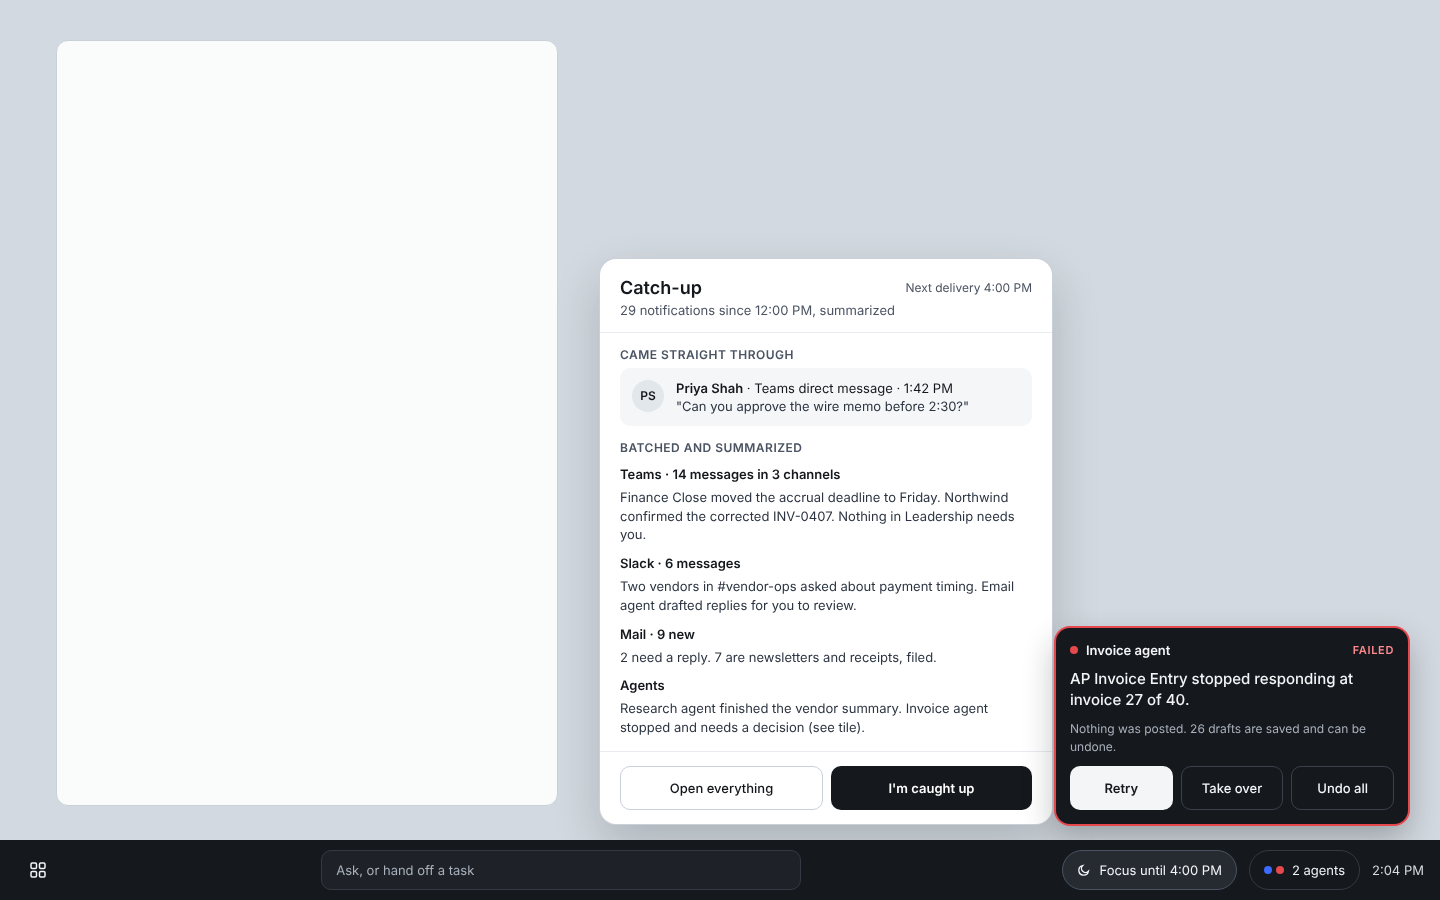
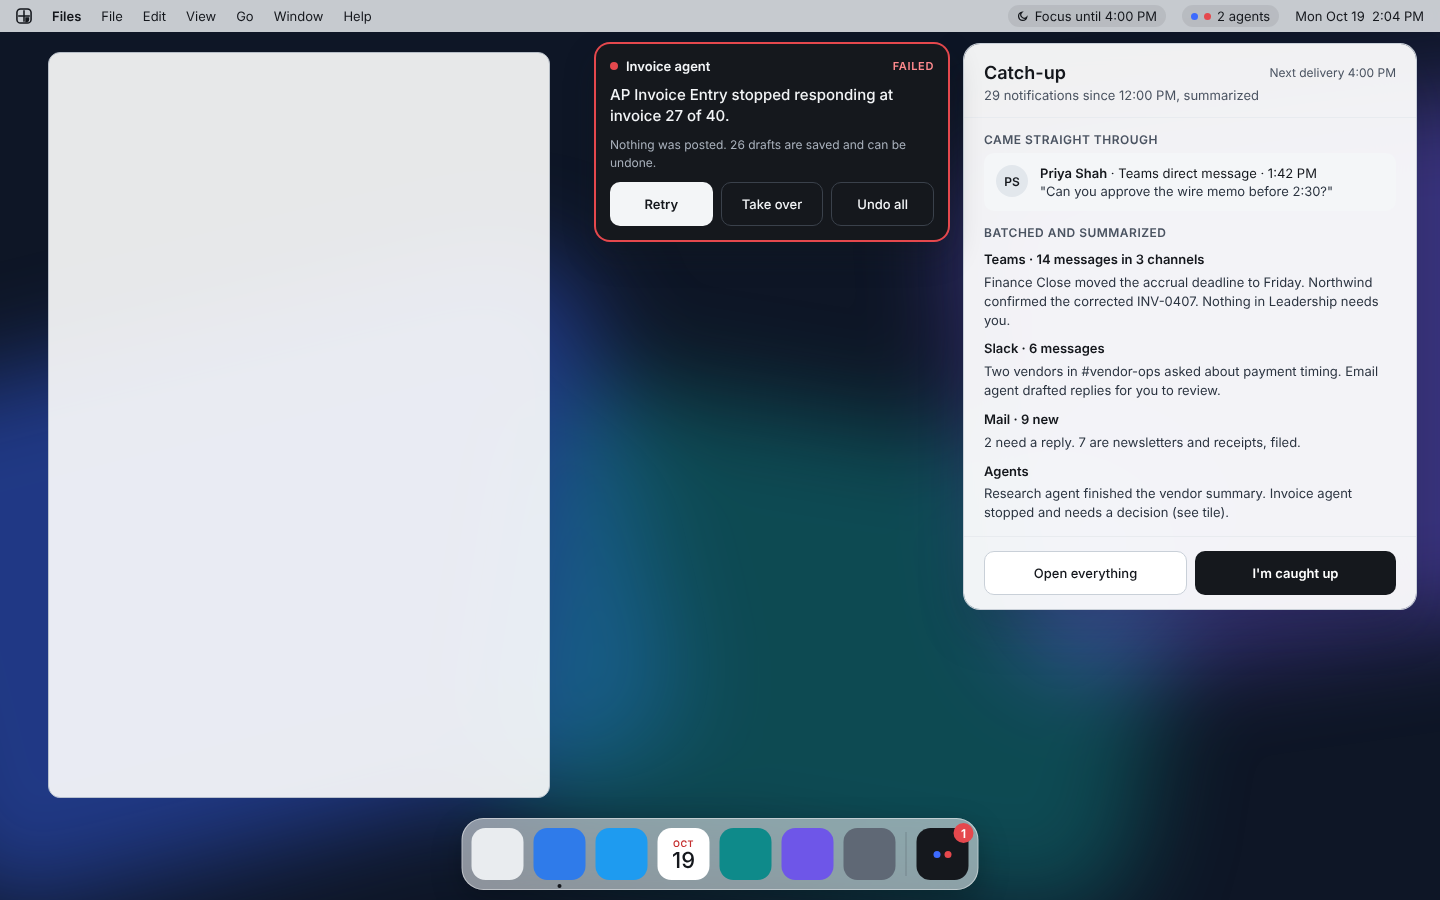
Sync the PRD and mockups: a Mac-like desktop and the UX requirements
The PRD now makes the desktop Mac-like (DK-1: menu bar, dock, window
controls on the left, tiles at the top right, Ctrl Space command bar) and
adds "Desktop experience and design" (UX-1 … UX-40; UX-1, UX-2, UX-10,
UX-20 … UX-22 and UX-30 in P0). The canvas has four new boards (boot, sign
in, snapping and ask the agent, themes) and eleven restyled ones.

- docs/design: all 22 renders current; element maps for the new boards and
  the menu bar and dock.
- Traceability: a Desktop experience section with honest statuses.
- Architecture: the desktop and theme constraint.

Claude-Session: https://claude.ai/code/session_011T7SYa1vfVuLX62i8AiK4u

diff --git a/docs/prd/prd-snapshot.md b/docs/prd/prd-snapshot.md
@@ -20,7 +20,7 @@ V1 succeeds when a security team approves agents with real write access for a fl
 1. Let agents act across apps, files and legacy systems with enforced, IT-defined limits.
 2. Make every agent action visible live, attributable afterward and reversible.
 3. Keep sensitive data inside policy, so it never reaches an unapproved model or destination.
-4. Feel familiar enough that a Windows user is productive on day one without training.
+4. Feel simple and Mac-like, while Windows users stay productive on day one through familiar shortcuts and a short guided tour.
 5. Give IT one console to set agent policy, manage the fleet and prove compliance.
 **Non-goals for v1**
 - Replacing Windows for general knowledge workers who depend on heavy Windows-only apps.
@@ -68,7 +68,7 @@ When requirements conflict, these decide.
 4. **Quiet until it matters.** Tiles stay calm while work goes well. Only "needs you" pulses. Every extra prompt spends user trust.
 5. **The human can always grab the wheel.** Pause, take over and stop work instantly, at any point, on any agent.
 6. **Structured first, pixels last.** Agents use app actions and the accessibility tree. Screen control is a fallback for legacy apps, not the default.
-7. **Familiar on day one.** Taskbar, file browser, windows and shortcuts work the way Windows users expect. AI is added on top, never forced.
+7. **Familiar on day one.** A clean, Mac-like desktop, with the keyboard shortcuts Windows users already know. AI is added on top, never forced.
 8. **Provable to an auditor.** Every agent action is logged with who asked, what it touched and what policy allowed it.
 
 ## Agent window experience
@@ -424,7 +424,7 @@ Glasshouse needs a developer program and an IT-controlled catalog, not a consume
 ## Familiar desktop and app compatibility
 A Windows user should feel at home in minutes, and every app the beachhead uses must run on day one, natively, in the browser or in a managed Windows session.
 **Desktop**
-- DK-1. Bottom taskbar, launcher, window controls and file browser follow Windows conventions. The command bar sits in the taskbar center (see the Desktop artboard).
+- DK-1. The desktop is Mac-like: a menu bar across the top, a dock at the bottom, window controls on the left, and agent tiles at the top right. The command bar opens over everything with Ctrl Space, like Spotlight (see the Desktop artboard).
 - DK-2. Common Windows shortcuts work as expected (Alt Tab, Ctrl C, Win-key launcher equivalents).
 - DK-3. AI is optional. A user who never opens the command bar has a complete, normal desktop.
 - DK-4. Accessibility at WCAG 2.2 AA across the shell, with screen reader, high contrast and keyboard-only operation.
@@ -439,6 +439,25 @@ A Windows user should feel at home in minutes, and every app the beachhead uses 
 - DK-10. Before each deal, a compatibility assessment tool scans a sample of the customer's Windows fleet and lists each app's path.
 - DK-11. Printing, scanning, docks, webcams and headsets work on certified hardware with no setup.
 - DK-12. V1 ships on a short certified hardware list from one or two OEMs. Broad hardware support isn't a v1 goal.
+
+## Desktop experience and design
+Glasshouse should feel calm, fast and opinionated: great defaults out of the box, one switch to restyle everything, and an agent one click away from any problem. Some of these choices come from Omarchy, a popular agent-first Linux desktop that bills itself as a malleable OS for the age of agents ([omarchy.org](https://omarchy.org/)). It shows real demand for a desktop people can reshape with agents. Glasshouse's answer for the enterprise is malleable, but governed. See the Snapping and ask the agent and Themes artboards on the [mockups canvas](https://claude.ai/artifact/Y5fH2vFk3fWUvWumZTRATC).
+**Defaults and setup**
+- UX-1. Chef's-choice defaults: one curated set of apps, settings and layouts, so users face almost no upfront choices. IT policy covers the rest.
+- UX-2. Setup asks individuals five questions or fewer and org-enrolled devices none. A fresh install reaches a working desktop in under 5 minutes.
+- UX-3. A "Try Glasshouse" virtual machine runs on Mac and Windows, so evaluators and pilot teams can explore before installing.
+**Themes**
+- UX-10. One theme restyles the whole system at once: menu bar, dock, windows, tiles, notifications, terminal and wallpaper.
+- UX-11. IT can set an org brand theme and choose which other themes users may pick. Every theme must meet WCAG 2.2 AA contrast, and light and dark modes work everywhere.
+**Speed and the keyboard**
+- UX-20. Everything is reachable by keyboard, with a shortcut cheat sheet one key away. Familiar Windows shortcuts work alongside the Mac-style ones.
+- UX-21. Window snapping and saved layouts: drag a window to an edge or use the layout picker for side-by-side and grid layouts. An optional tiling mode serves power users.
+- UX-22. Performance budgets are checked on every build for input lag, app launch, window open and wake to a usable desktop. A standing papercut program fixes small annoyances fast.
+**An agent one click from any problem**
+- UX-30. Every error, crash and failed-update notification offers "Ask the agent." The agent examines logs or crash data within the user's permissions, explains what happened in plain language, fixes what policy allows, and otherwise opens a help desk ticket with diagnostics attached.
+- UX-31. Any setting can be explained ("why is this turned off?") and, within policy, changed by the agent. Admin policy can be exported as readable text, so it can be reviewed and versioned like code.
+**A malleable desktop**
+- UX-40. The desktop itself can be tailored. Menu-bar widgets, dock add-ons and shell extensions are catalog items that can be built on request (GA-1 to GA-11) or tailored with layers (TL-1 to TL-22), under the same review and permissions as everything else.
 
 ## Core OS and workplace features
 These are the everyday basics enterprise buyers check before anything AI-related. Sign-in, networking, meetings and laptop reliability are where non-Windows desktops have historically lost enterprise deals, so they're treated as release gates.
@@ -572,6 +591,7 @@ Each phase starts only when the gate before it passes. Timing assumes a founding
 - UI stack: UI-1 to UI-6
 - Agent engine: AE-1, AE-2 (invoice reconciliation), AE-3, AE-4, AE-10 to AE-12, AE-30
 - Tailoring, minimal for Pilot 1: TL-1, TL-2, TL-10, TL-11 and TL-13 on our first-party agents, with undo
+- Desktop experience: UX-1, UX-2, UX-10, UX-20 to UX-22, UX-30
 **P1 · V1 GA**
 - AW-6, DA-4, DA-14, NV-4, NV-21, NV-22, NV-30 to NV-32
 - DP-6, DP-11, DP-20, DP-30, AU-4, AU-11, AU-22
@@ -587,6 +607,7 @@ Each phase starts only when the gate before it passes. Timing assumes a founding
 - Agent engine: AE-2 (remaining agents), AE-20 to AE-25
 - Apps built on request: GA-1 to GA-11
 - Tailoring catalog items: TL-3, TL-4, TL-12, TL-14, TL-20 to TL-22
+- Desktop experience: UX-3, UX-11, UX-31, UX-40
 **P2 · Later**
 - Undo into third-party SaaS through compensating actions at scale
 - A public agent and adapter marketplace

diff --git a/docs/design/README.md b/docs/design/README.md
@@ -2,10 +2,13 @@
 
 The PRD's mockups live in a Claude Design canvas, **"Agent Window — OS
 Mockups"**: <https://claude.ai/artifact/Y5fH2vFk3fWUvWumZTRATC>. The PNGs here
-are renders of its eighteen artboards, for reading without the canvas. They go
+are renders of its twenty-two artboards, for reading without the canvas. They go
 stale when the canvas changes; re-render them with the `prd-sync` skill
 (`.claude/skills/prd-sync`), which uses `tools/design/render-dc.py`.
 
+The desktop is **Mac-like** (DK-1, revised): a translucent menu bar across
+the top, a dock at the bottom, window controls on the left, agent tiles at
+the top right, and the command bar opening over everything with Ctrl Space.
 The shell (compositor and GUI) is not built yet. Everything a tile, the
 expanded view and the handoff card show already comes from the control API
 (`glass-api`), so the shell can be built directly against it. The tables
@@ -29,7 +32,9 @@ light desktop; accent `#3D6BFF` for working and you're-driving; attention
 | Needs-you question, Review drafts / Approve and send | `needs: ApprovalView` (`summary`, `items`) → `approval.answer` |
 | "Allow sends for the rest of this task" | `ApprovalAnswer::Approve { scope: Task }` |
 | Screen thumbnail with labeled agent cursor (AW-2) | **Not built**: needs screen-control agents |
-| Taskbar "3 agents" pill, command bar (DA-1) | `task.list` counts; command bar → `task.plan` |
+| Menu bar: app menus, "3 agents" pill with one dot per tile, Wi-Fi, battery, clock | `task.list` counts and states; app menus come from the focused app (shell); Wi-Fi and battery from the system (PM, CF) |
+| Dock: launcher, apps with open dots, calendar date, Agents with a needs-you badge | Apps from the catalog (shell); the badge is the count of `NeedsYou` tiles |
+| Command bar over everything, Ctrl Space (DA-1) | `task.plan` on enter; see Command bar below |
 | Live updates | `events.subscribe` → `event` notifications (`TaskUpdated`, `TaskRemoved`) |
 
 ## Expanded · watch, take over, rewind
@@ -129,7 +134,7 @@ e2e `changes` scenario.
 | Take over | For screen agents, the agent's display (not built). For an actions agent that ended: `task.continue` starts the task again in the user's own Claude Code, which is told what the agent did and why it stopped; `TaskView.driver_socket` is what to connect (`glass-mcp <socket>`), and hand back closes it (ADR 0015) |
 | Undo all | `task.undo {}` |
 | Catch-up panel, batched and summarized notifications, Focus until 4:00 PM (CF-71, P1) | **Not built**: a notification service in the shell; agents' tile events are one of its sources |
-| Taskbar "2 agents" with one red dot | `task.list` states |
+| Menu bar "2 agents" with one red dot | `task.list` states |
 
 ## First-run setup · AI models
 
@@ -222,7 +227,8 @@ The IT self-service agent (AE-4). Its first slice is built: `glass-it-agent`
 
 ![Command bar with the general agent](mockups/command-bar.png)
 
-The general desktop agent (AE-3) is the default for anything typed here.
+The general desktop agent (AE-3) is the default for anything typed here. It
+opens over everything with Ctrl Space, like Spotlight (DK-1).
 
 | Element | Source |
 |---|---|
@@ -287,4 +293,49 @@ Not built (GA-1 … GA-11, P1). What it builds on:
 | Overdue reminders to you only | An action at Auto for the owner and Ask for anyone else; sends outside follow the tiers (GA-7) |
 | Owner: Dana Ruiz | GA-9 ownership; the audit log already attributes every change to a user |
 | Share with the AP team: security checks and IT approval | GA-8 sharing steps, reusing the catalog checks (DV-2, DV-3) |
+
+## Boot
+
+![Boot screen](mockups/boot.png)
+
+Black, the four-pane Glasshouse mark and a progress bar. The mark replaces
+the house art: `tools/branding/art.py` draws it for the boot splash, the
+boot menu and the console screens. A static splash can't move its bar, so the
+splash shows the mark alone; the shell draws the bar once it starts (M2).
+
+## Sign in
+
+![Sign-in screen](mockups/login.png)
+
+| Element | Source |
+|---|---|
+| Date and large clock on the wallpaper | Shell (lock screen, UI-4) |
+| Avatar, name, password field, "Touch the fingerprint sensor" | The greeter, signing in through PAM (**not built**); fingerprint and passkeys are CF-2 (**not built**) |
+| "[Org name] managed device · signs in with Entra ID" | Enrollment and directory sign-in (AD-1, **not built**) |
+| Switch user, accessibility, Wi-Fi, battery | Shell; accessibility through AccessKit (UI-4) |
+
+Until the greeter exists, the console login screen (`/etc/issue`) carries
+the mark and the agent status line.
+
+## Snapping and ask the agent
+
+![Snapping and ask the agent](mockups/snap.png)
+
+| Element | Source |
+|---|---|
+| Snap to layout picker: halves, thirds, quarters, saved "Month-end" (UX-21) | Compositor window management (**not built**) |
+| "Expense portal stopped responding" with Ask the agent / Reload / Dismiss (UX-30) | A system notification; Ask the agent starts a desktop-agent task (`task.start`) with the crash details as its prompt and IT's diagnostics actions in scope (AE-4's `system.*`) |
+| Desktop agent's answer, Report it to IT / Thanks, done | The task's caption and receipt; Report it to IT is `helpdesk.ticket.create` |
+| "Hold Ctrl to see every shortcut" (UX-20) | Shell (**not built**) |
+
+## Themes
+
+![Themes in Settings](mockups/themes.png)
+
+| Element | Source |
+|---|---|
+| One theme restyles menu bar, dock, windows, tiles, notifications, terminal and wallpaper (UX-10) | The shell reads one theme (tokens: colors, radii, wallpaper); the first shell crate keeps every color in one `Theme` |
+| Light / Dark / Auto | Theme modes |
+| "[Org name] brand · Default · IT", "6 themes approved by IT", WCAG 2.2 AA (UX-11) | Policy: an org theme and an allow list (**not built**) |
+| Accent colors | Theme tokens |
 

diff --git a/docs/prd-traceability.md b/docs/prd-traceability.md
@@ -6,10 +6,11 @@ OS — PRD"), plus engineering notes on P1 work that shapes today's design.
 what's missing. Update this file in the same change that moves a
 requirement; the `prd-sync` skill re-reads the PRD and diffs it.
 
-PRD revision last synced: 2026-10-18, fourth sync (users shape their own
-tools: tailoring catalog items with layers, TL-1, TL-2, TL-10, TL-11 and
-TL-13 in Pilot 1; apps built on request, GA-1 … GA-11, P1; a success
-metric for it; two new mockups). V1 is **US-only** and **x86 (Intel/AMD)
+PRD revision last synced: 2026-10-19, fifth sync (a Mac-like desktop:
+menu bar, dock, window controls on the left, Ctrl Space command bar; the
+"Desktop experience and design" section, UX-1 … UX-40, with UX-1, UX-2,
+UX-10, UX-20 … UX-22 and UX-30 in P0; four new mockups: boot, sign in,
+snapping and ask the agent, themes). V1 is **US-only** and **x86 (Intel/AMD)
 only**: we build and test `x86_64-unknown-freebsd` and nothing else.
 
 Tests: *unit* = crate unit tests, *pipeline* =
@@ -166,6 +167,24 @@ field. The compositor, GUI tiles and screen thumbnails are not started.
 | Id | Status | Notes |
 |---|---|---|
 | UI-1 … UI-6 Wayland compositor on Smithay, iced + AccessKit shell, web apps with manifests | Not started | ADR 0009. The control API already carries everything tiles, the expanded view, handoff and Changes show (docs/design) |
+
+## Desktop experience
+
+The desktop is Mac-like (DK-1, revised): menu bar, dock, window controls on
+the left, agent tiles at the top right, command bar on Ctrl Space. The
+element-by-element map is in [docs/design](design/README.md).
+
+| Id | Status | Notes |
+|---|---|---|
+| DK-1 Mac-like desktop | Not started | shell; the first shell crate renders the desktop, sign-in and boot screens headlessly (M1) |
+| UX-1 Chef's-choice defaults | Not started | |
+| UX-2 Setup asks ≤ 5 questions (none when enrolled), desktop in < 5 min | Not started | first-run setup (Setup mockup) |
+| UX-10 One theme restyles the whole system | Not started | the shell keeps every color, radius and wallpaper in one theme |
+| UX-20 Everything by keyboard, cheat sheet, Windows shortcuts too | Not started | shell |
+| UX-21 Snapping, saved layouts, optional tiling | Not started | compositor |
+| UX-22 Performance budgets on every build; papercut program | Partial | OS-side budgets in `glass-e2e perf` (docs/dev/performance.md); input lag, app launch, window open and wake need the shell |
+| UX-30 "Ask the agent" on every error, crash and failed update | Partial | the IT agent diagnoses, fixes from IT's list and files tickets (AE-4); the notification and its button need the shell |
+| UX-3, UX-11, UX-31, UX-40 Try-it VM, org themes, explain any setting, tailorable desktop | P1 | UX-40 reuses tailoring layers (ADR 0014) |
 
 ## Agent engine
 

diff --git a/docs/architecture.md b/docs/architecture.md
@@ -163,6 +163,10 @@ pipeline refuses further side effects (fail closed).
   ADR 0010).** Nothing an agent ships or an improvement loop edits can
   change tiers, Never rules, labels or scope, so keep every limit enforced
   in `glassd`, never delegated to the agent.
+- **A calm, Mac-like desktop (DK-1, UX).** Menu bar, dock, window
+  controls on the left, tiles at the top right, Ctrl Space command bar. All
+  styling comes from one theme (UX-10), and anything a person waits on has
+  a latency budget checked on every build (UX-22).
 - **Users shape their tools; the OS keeps it safe (TL, GA, ADR 0014).**
   Tailoring is data the OS checks (settings for declared points, limits
   that only narrow), never code an agent ships. Apps built on request are
